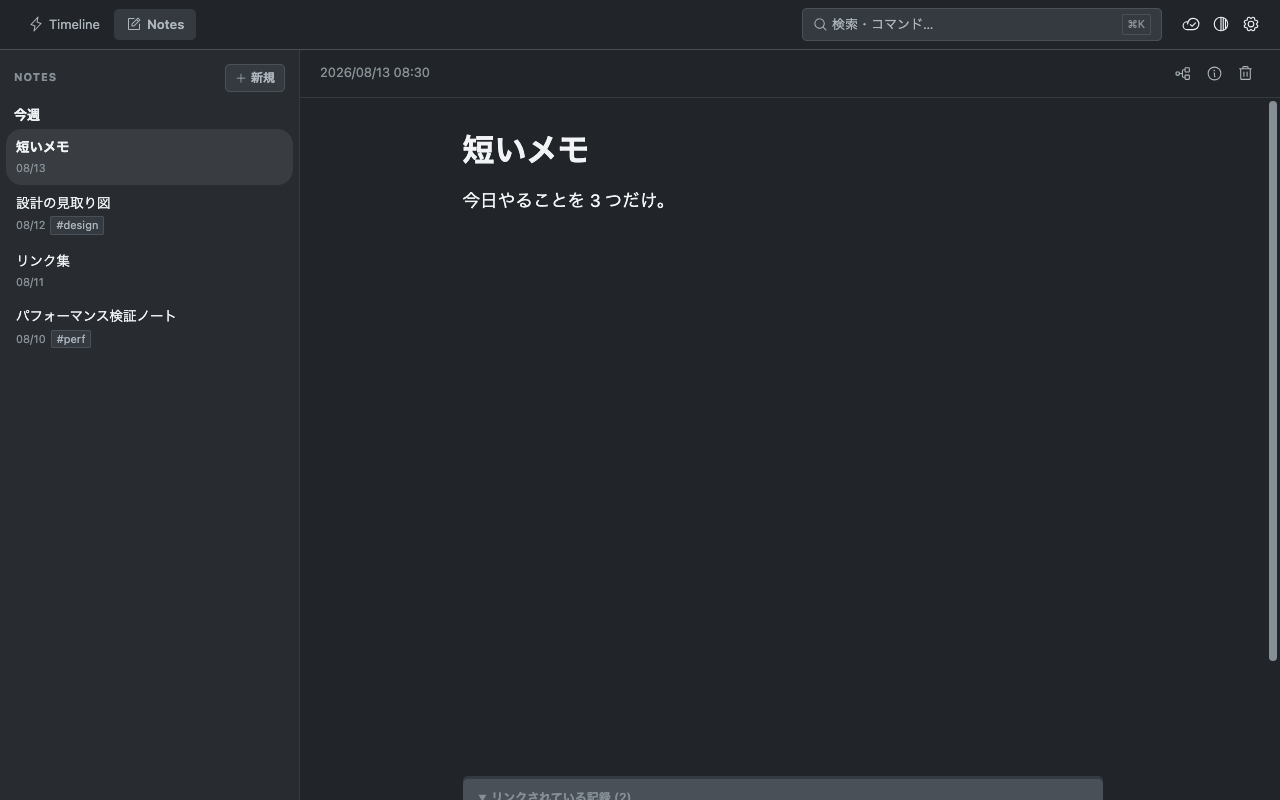
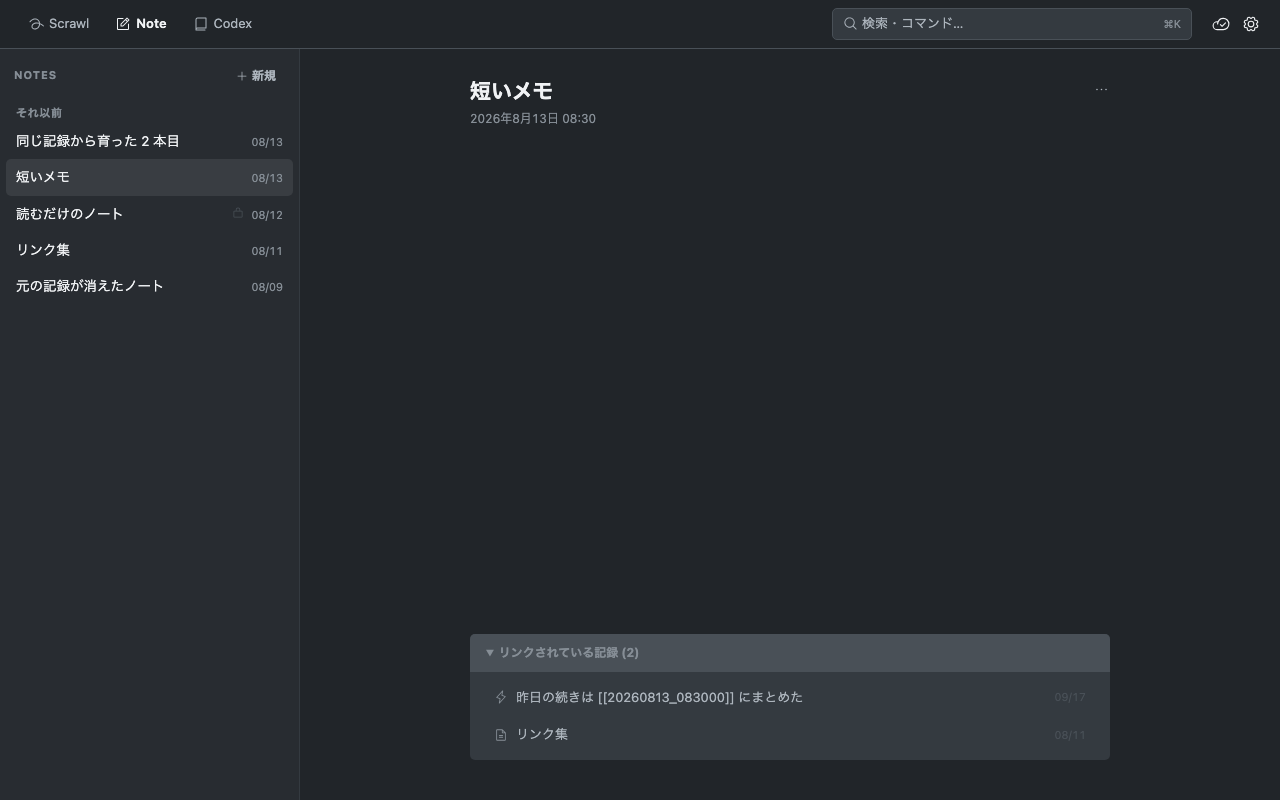
docs: retake every screenshot; they all still showed the two-tab UI
All seven PNGs under docs/images/ were captured before Codex existed, so
they showed a Timeline / Notes header (Notes / Settings on the phone's
bottom bar), the active tab filled rather than marked by weight, a theme
toggle in the header that now lives in Settings, and a row of per-note
icons where the one `…` menu is. The feature tour's own text, rewritten
in this branch, says four tabs — the pictures contradicted it.

Retaken with Playwright against `BROWSER_MOCK=1 vite` at the same sizes
(1280x800, 390x844 for the phone), dark theme, locale pinned to ja so the
fixture text reads the same as before.

Two paragraphs had to move with the pictures, because the new shots show
what the old prose denied:

- The weekly digest is one line now, and the tag chips are the filter row
  above it, not part of the digest.
- The only fixture with enough heading structure to draw a markmap is a
  Codex, so the map shot carries a version spine. Said so rather than
  leaving the reader to wonder what the column of dots is.

diff --git a/docs/features.md b/docs/features.md
@@ -14,10 +14,11 @@ day.
 
 ![Scrawl](images/timeline.png)
 
-At the top, a **weekly digest** appears once per week: how many entries on how
-many days, the most used tags (tap to filter), and — when that day has
-entries — a jump to _one year ago today_. Dismissing it hides it for the rest
-of the week, per device.
+At the top, a **weekly digest** appears once per week: one line saying how
+many entries on how many days and — when that day has entries — a jump to
+_one year ago today_. It sits under the tag chips rather than above them, so
+a digest that arrives late never pushes the chips down. Dismissing it hides
+it for the rest of the week, per device.
 
 ### Mobile
 
@@ -85,7 +86,10 @@ the body rather than in place of it, so the text you are reading it against
 stays on screen; only below 1100px, where there is no room for two, does it
 take the body's place:
 
-![A note with its markmap alongside](images/mindmap.png)
+![A document with its markmap alongside](images/mindmap.png)
+
+The shot is taken on a Codex, which is why a version spine stands to the left
+of the body; the map itself is the same on either surface.
 
 ## Note links and backlinks
 
